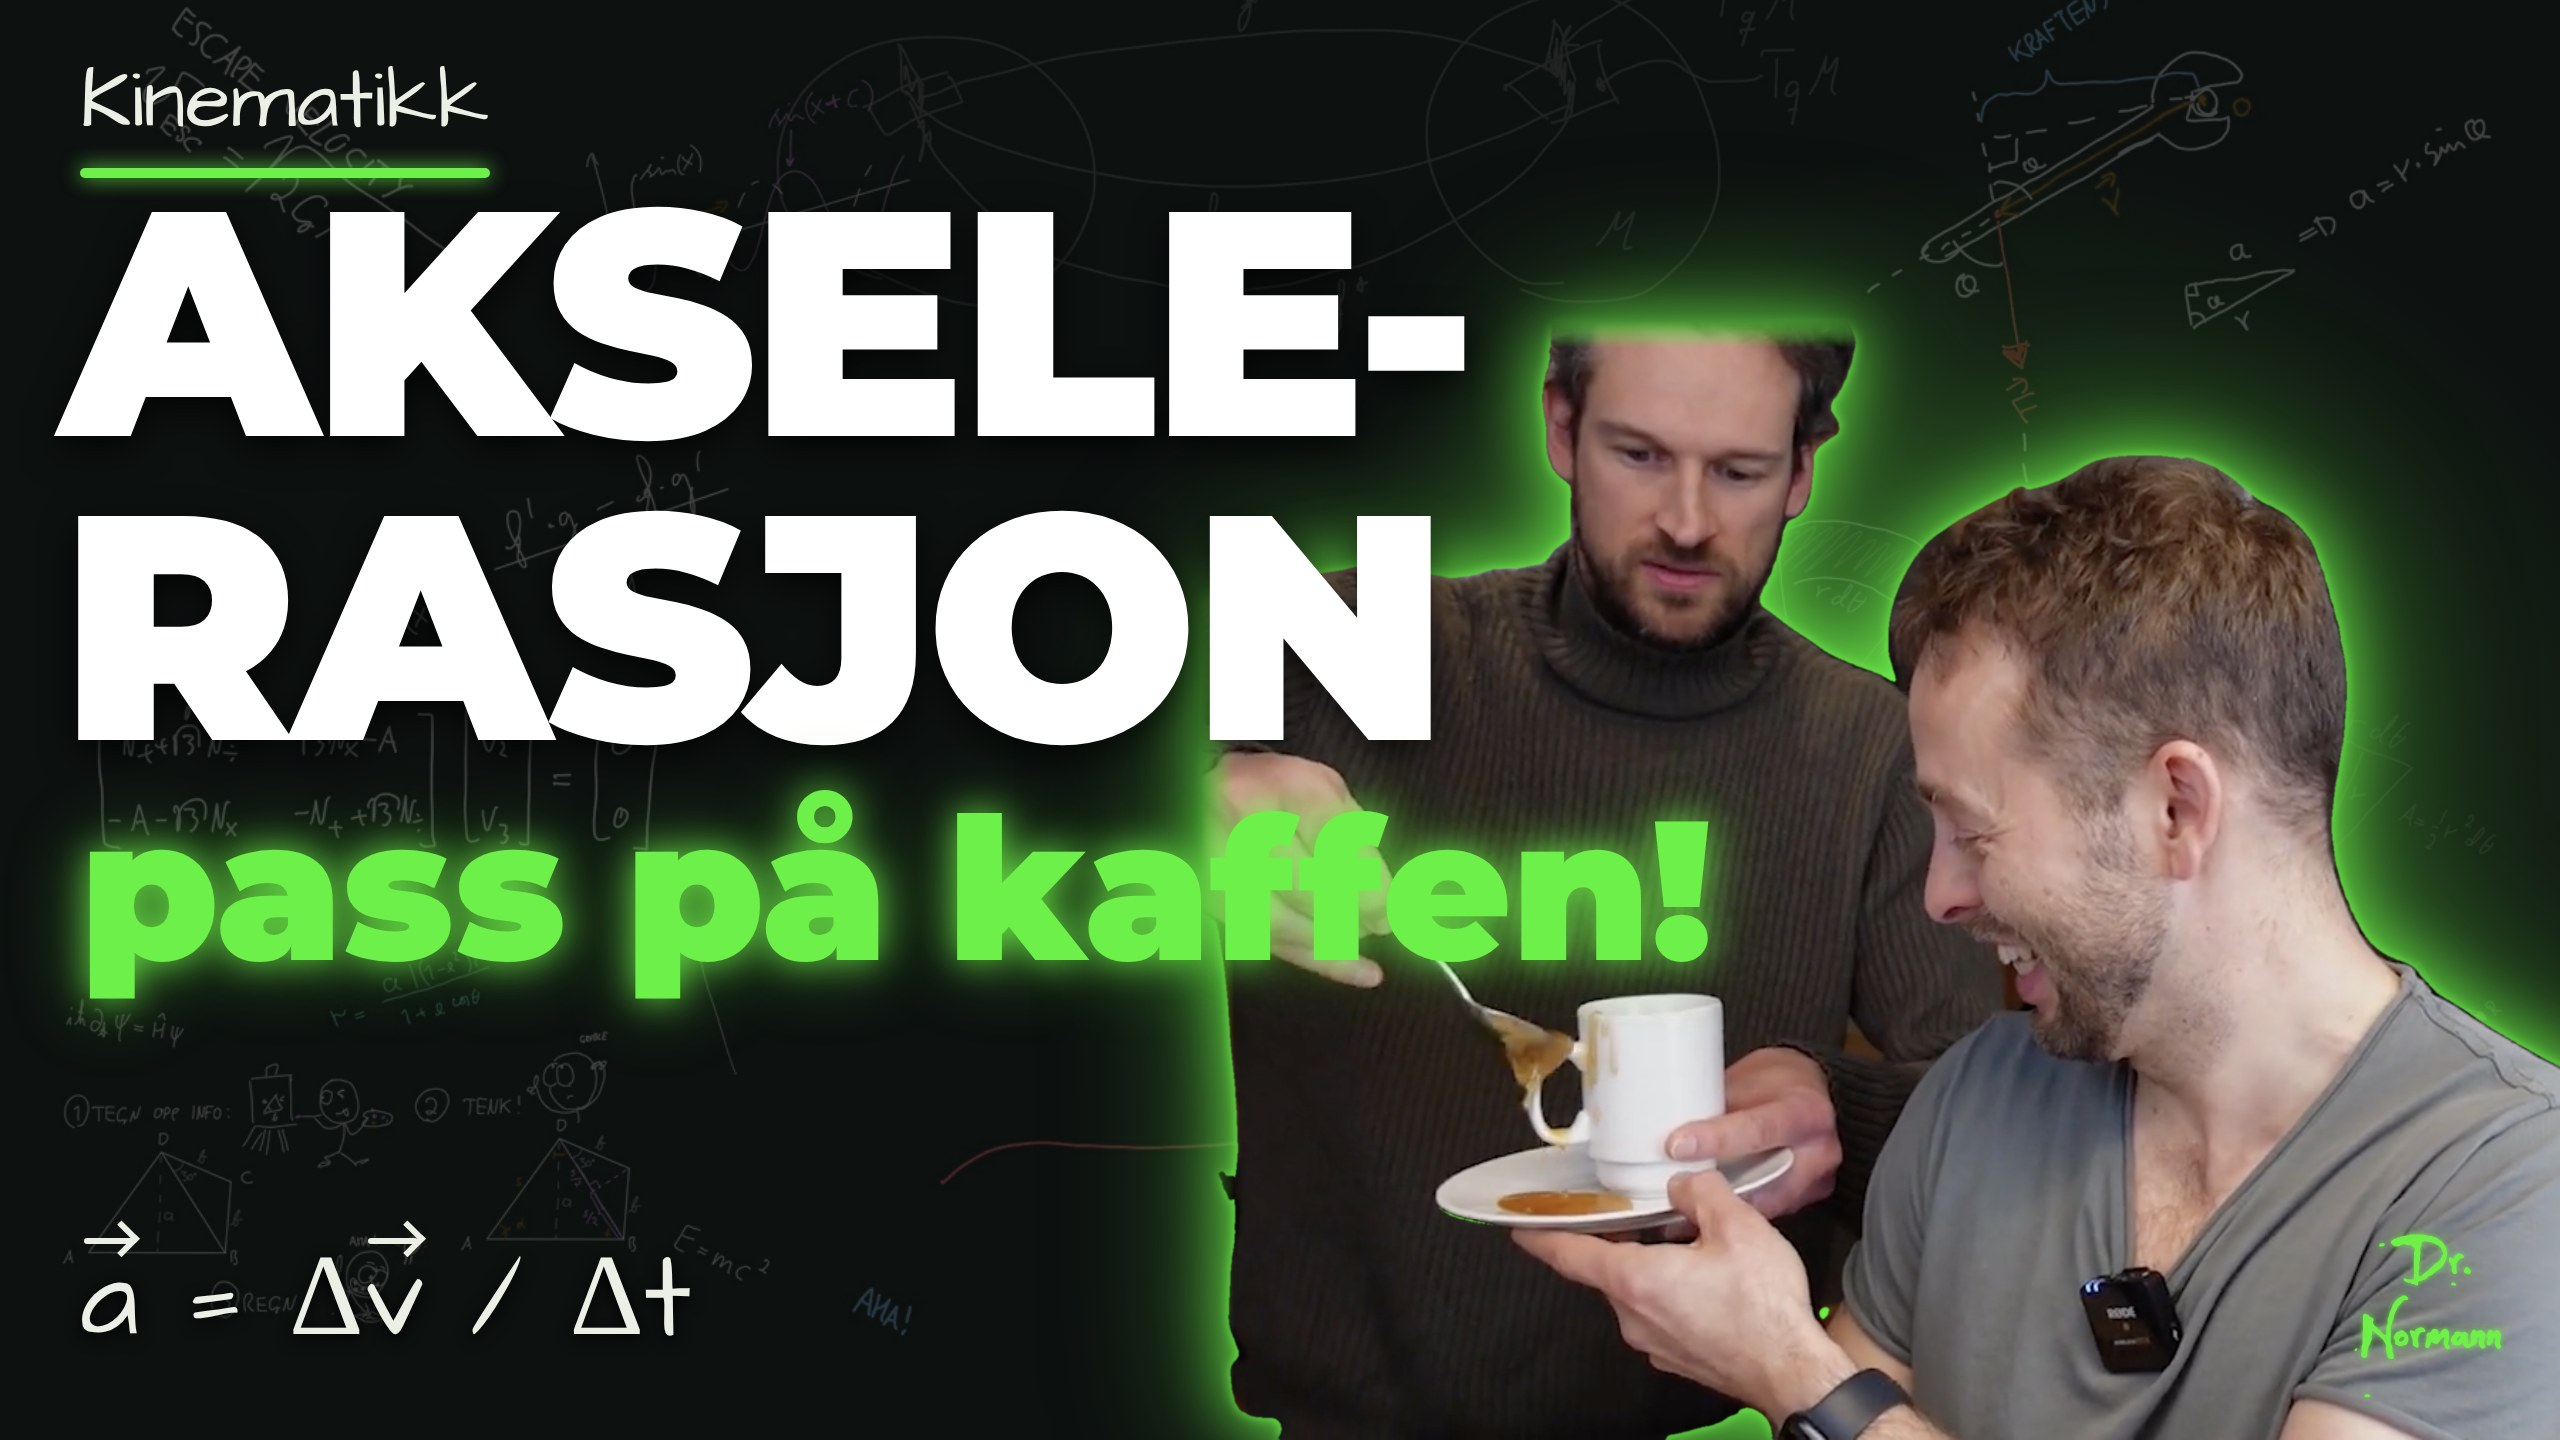
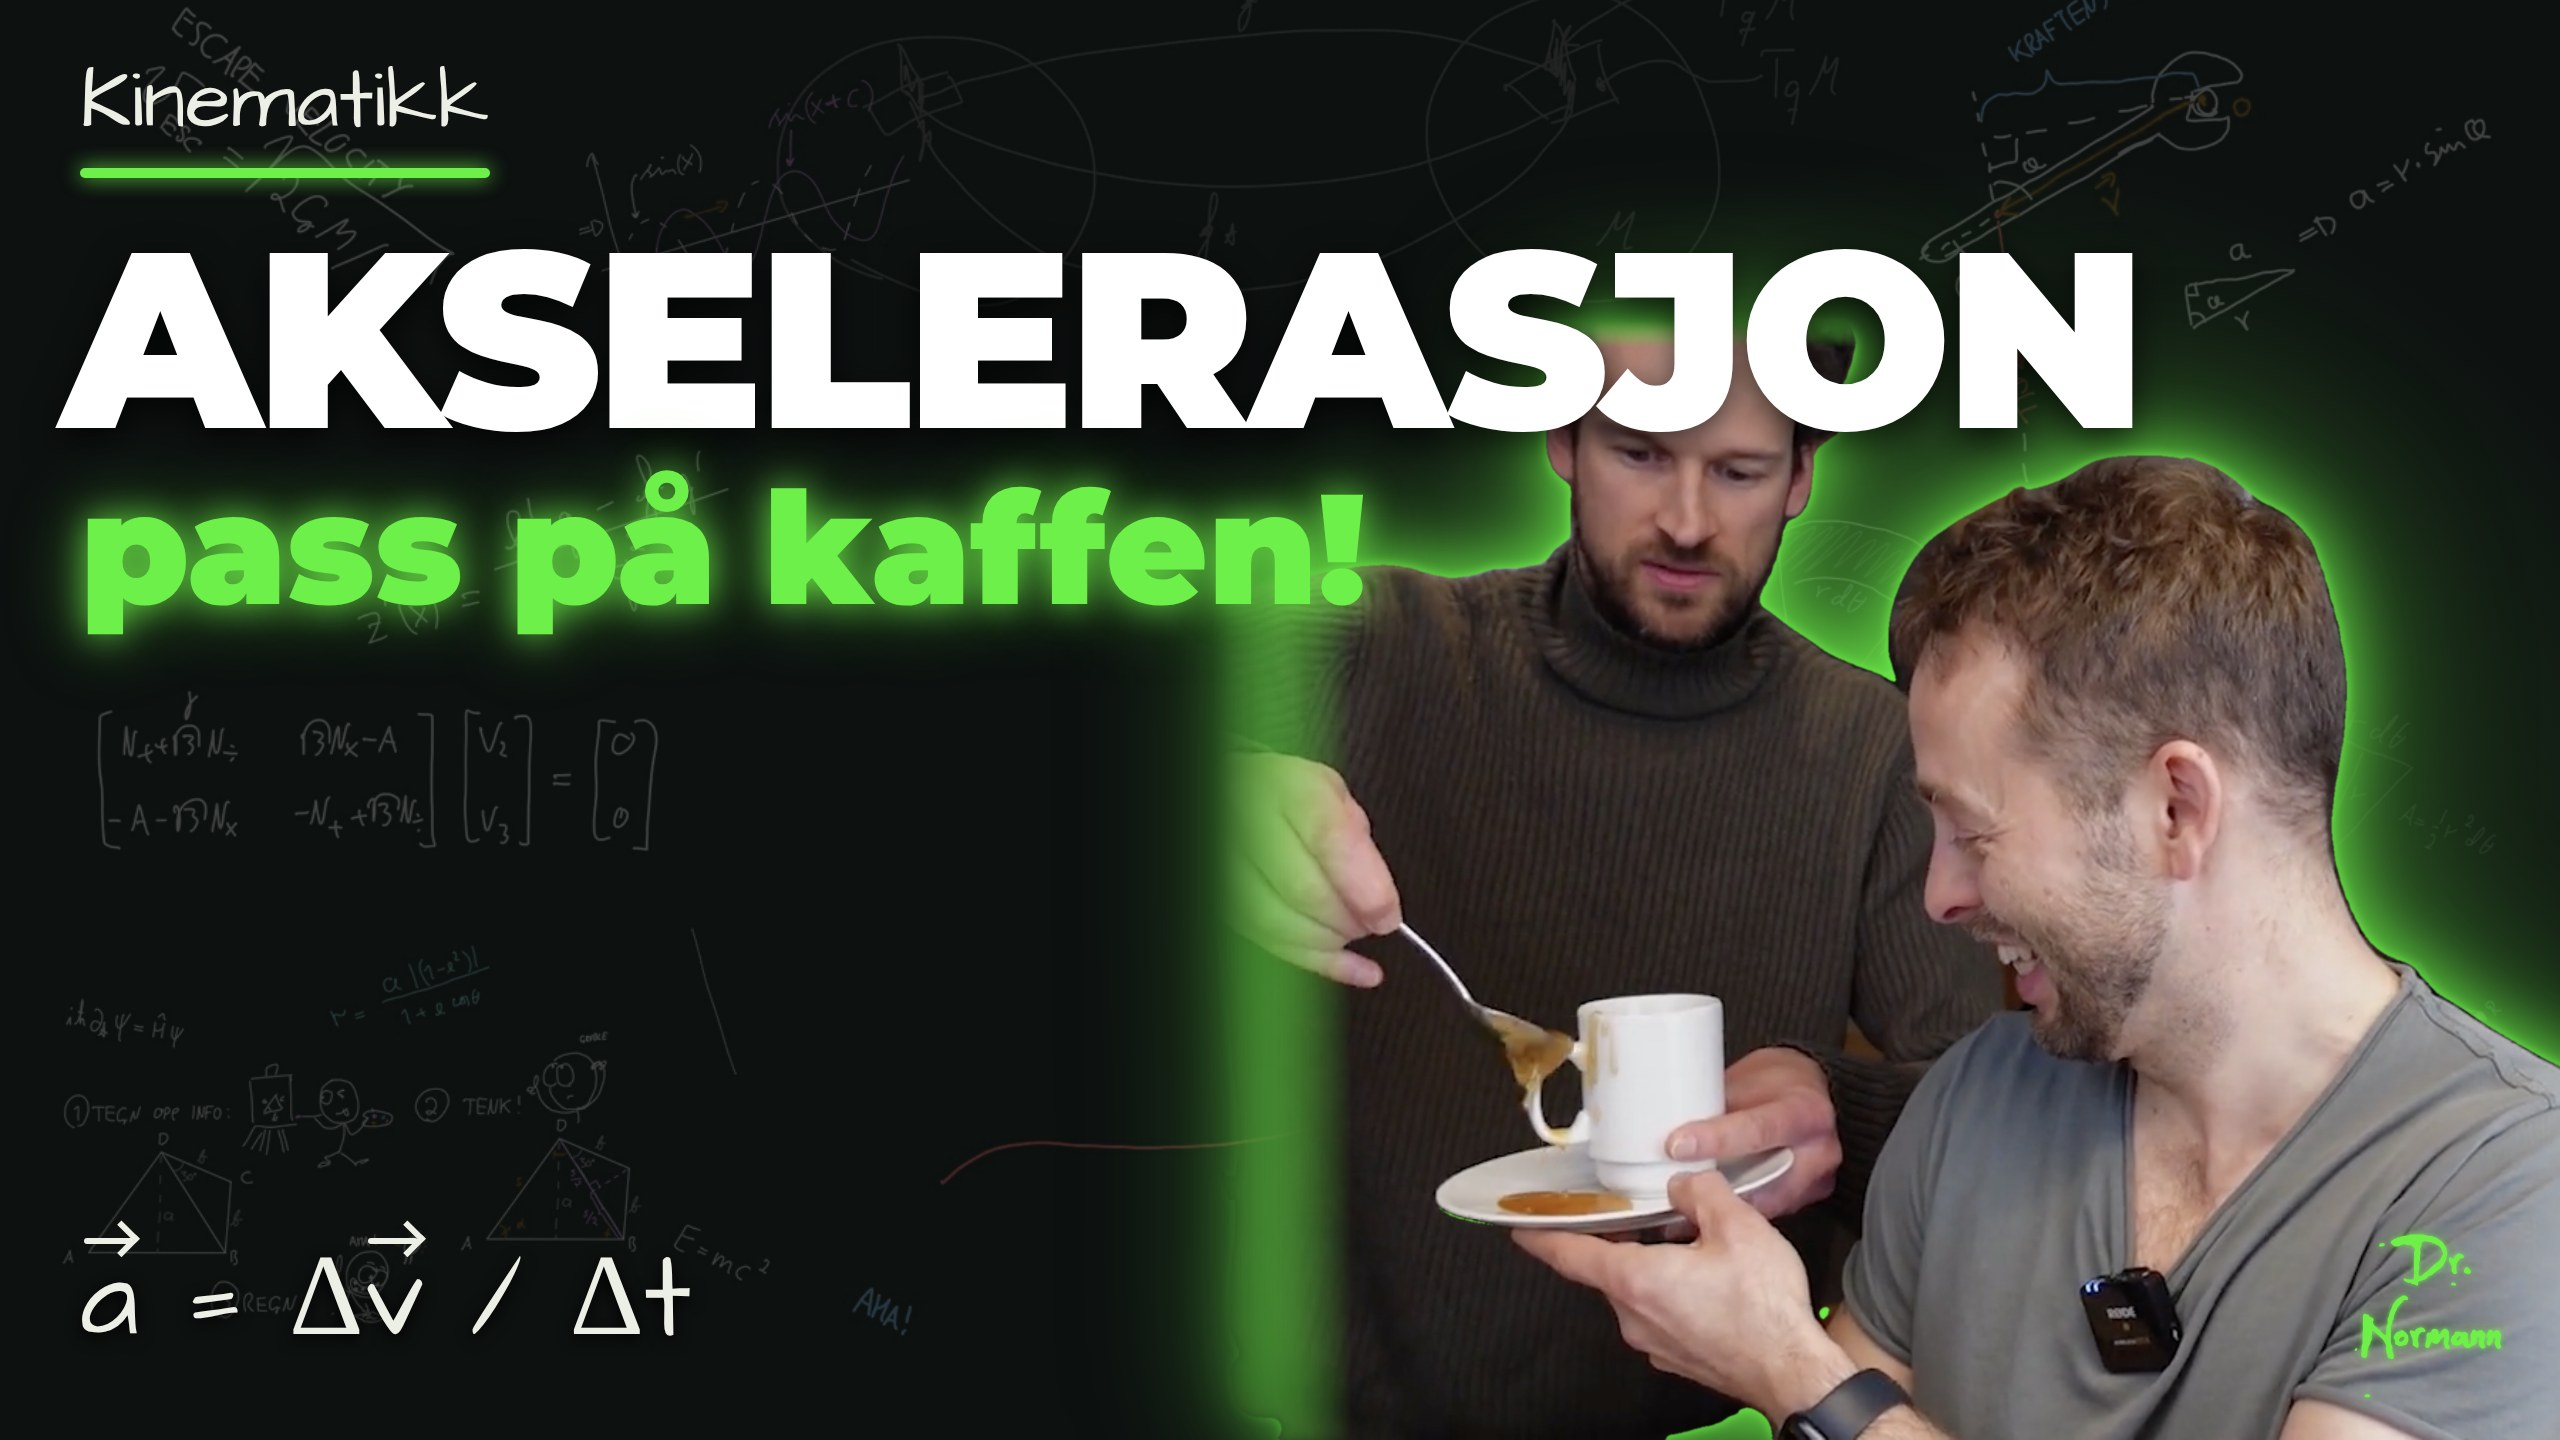
Miniatyrbilder: ingen orddeling i titler, tittel over avskåret kant (Akselerasjon); tittel_bredde i thumbnail.js
Claude-Session: https://claude.ai/code/session_01AG264w92gA6VbNbZjhAhPL

Changed region(s): [[0.0, 0.125, 0.8438, 1.0]]

diff --git a/_verktoy/thumbnail.js b/_verktoy/thumbnail.js
@@ -10,6 +10,7 @@
 //   "undertittel": "lagret arbeid",     grønn, lysende (kort!)
 //   "person": "person.png",             læreren klippet ut (sett_sammen.py --utklipp), gjennomsiktig PNG
 //   "beskjaer_person": [0.25, 0.75],    valgfri: hvilken del av utklippet (andel av bredden) som skal brukes
+//   "tittel_bredde": 1150,             valgfri: maks bredde på tittelen før den krympes (standard 820); bredere tittel kan dekke kanten av et utklipp
 //   "person_hoyre": -150,              valgfri: avstand fra høyre kant (standard -10); negativ skyver personen delvis ut av bildet
 //   "person_hoyde": 560,                valgfri: høyden på utklippet (standard 700 av 720); mindre for brede utklipp med flere personer
 //   "tegning": "tegning.png",           valgfri: nøkkeltegning eller eksperiment (PNG/SVG, gjennomsiktig) nede til venstre
@@ -61,7 +62,7 @@ const path = require('path');
     // lange titler krympes til de får plass på én linje hver (maks 820 px bred)
     const ti = document.getElementById('tittel'), un = document.getElementById('under');
     let fs = ${tSize};
-    while (ti.scrollWidth > 820 && fs > 70) { fs -= 4; ti.style.fontSize = fs + 'px'; un.style.fontSize = Math.round(fs * 0.62) + 'px'; }
+    while (ti.scrollWidth > ${c.tittel_bredde || 820} && fs > 70) { fs -= 4; ti.style.fontSize = fs + 'px'; un.style.fontSize = Math.round(fs * 0.62) + 'px'; }
     const t = document.getElementById('tittel').getBoundingClientRect();
     const u = document.getElementById('under'); u.style.top = (t.bottom + 6) + 'px';
     const ub = u.getBoundingClientRect().bottom + 12;

diff --git a/LESMEG.md b/LESMEG.md
@@ -38,6 +38,7 @@ Faste ønsker som gjelder alle videoer. Claude fyller på her når læreren sier
 - **Kursnøytrale videoer.** En video skal kunne brukes i flere fag og løyper. Ikke referer til et bestemt kurs, kapittel eller rekkefølge: ikke «i dette kurset/forkurset», «i kapittel 3», «forrige video» eller «neste gang ser vi på …». Det gjelder både manus og tekst på skjermen. Knytt i stedet videoen til emnet (f.eks. «Arbeid og energi · Potensiell energi»). Henvisninger til nettstedet («fysikkhjelp») og til «oppgavene under videoen» er greit.
 - **Tavla tegnes alltid på nytt** med TikZ/SVG eller lignende, med uformelle bokstaver i håndskriftfonten. Lærerens tegninger er **bare inspirasjon** for hva som skal stå der. Unntak: Dashman-tegneserien og lignende figurer brukes som de er. Finn gjerne et bedre pedagogisk oppsett ut fra det læreren sier.
 - **Ting som beveger seg følger læreren:** når læreren presser sammen eller strekker en fjær, presses/strekkes fjæra på tavla i takt, og kraftvektoren vokser. Vis likevektsposisjonen og hva x er.
+- **Miniatyrbilder:** titler deles aldri med bindestrek (ett ord = én linje, krympes heller). Er et utklipp skåret av mot kanten av bildet (f.eks. toppen av et hode), legg tittelen over kanten eller ton den ut, så det ikke blir åpenbart.
 - **Vektorer har pil** overalt: F⃗, x⃗, h⃗, dx⃗ i integraler (W = ∫ F⃗ · dx⃗). Rekvisitter tegnes som det de er (boka som bok, ikke sirkel).
 - **Forklar formler eksplisitt** – studentene trenger mer enn du tror. Skriv f.eks. «Areal av trekant: A = ½ · g · h» før man setter inn x og kx.
 - **Lydeffekter i takt med det som skjer i bildet** (sjekk opptaket: «SPJONG» når fjæra faktisk slippes). Gjerne en bølge utover hele tavla ved «SPJONG».
